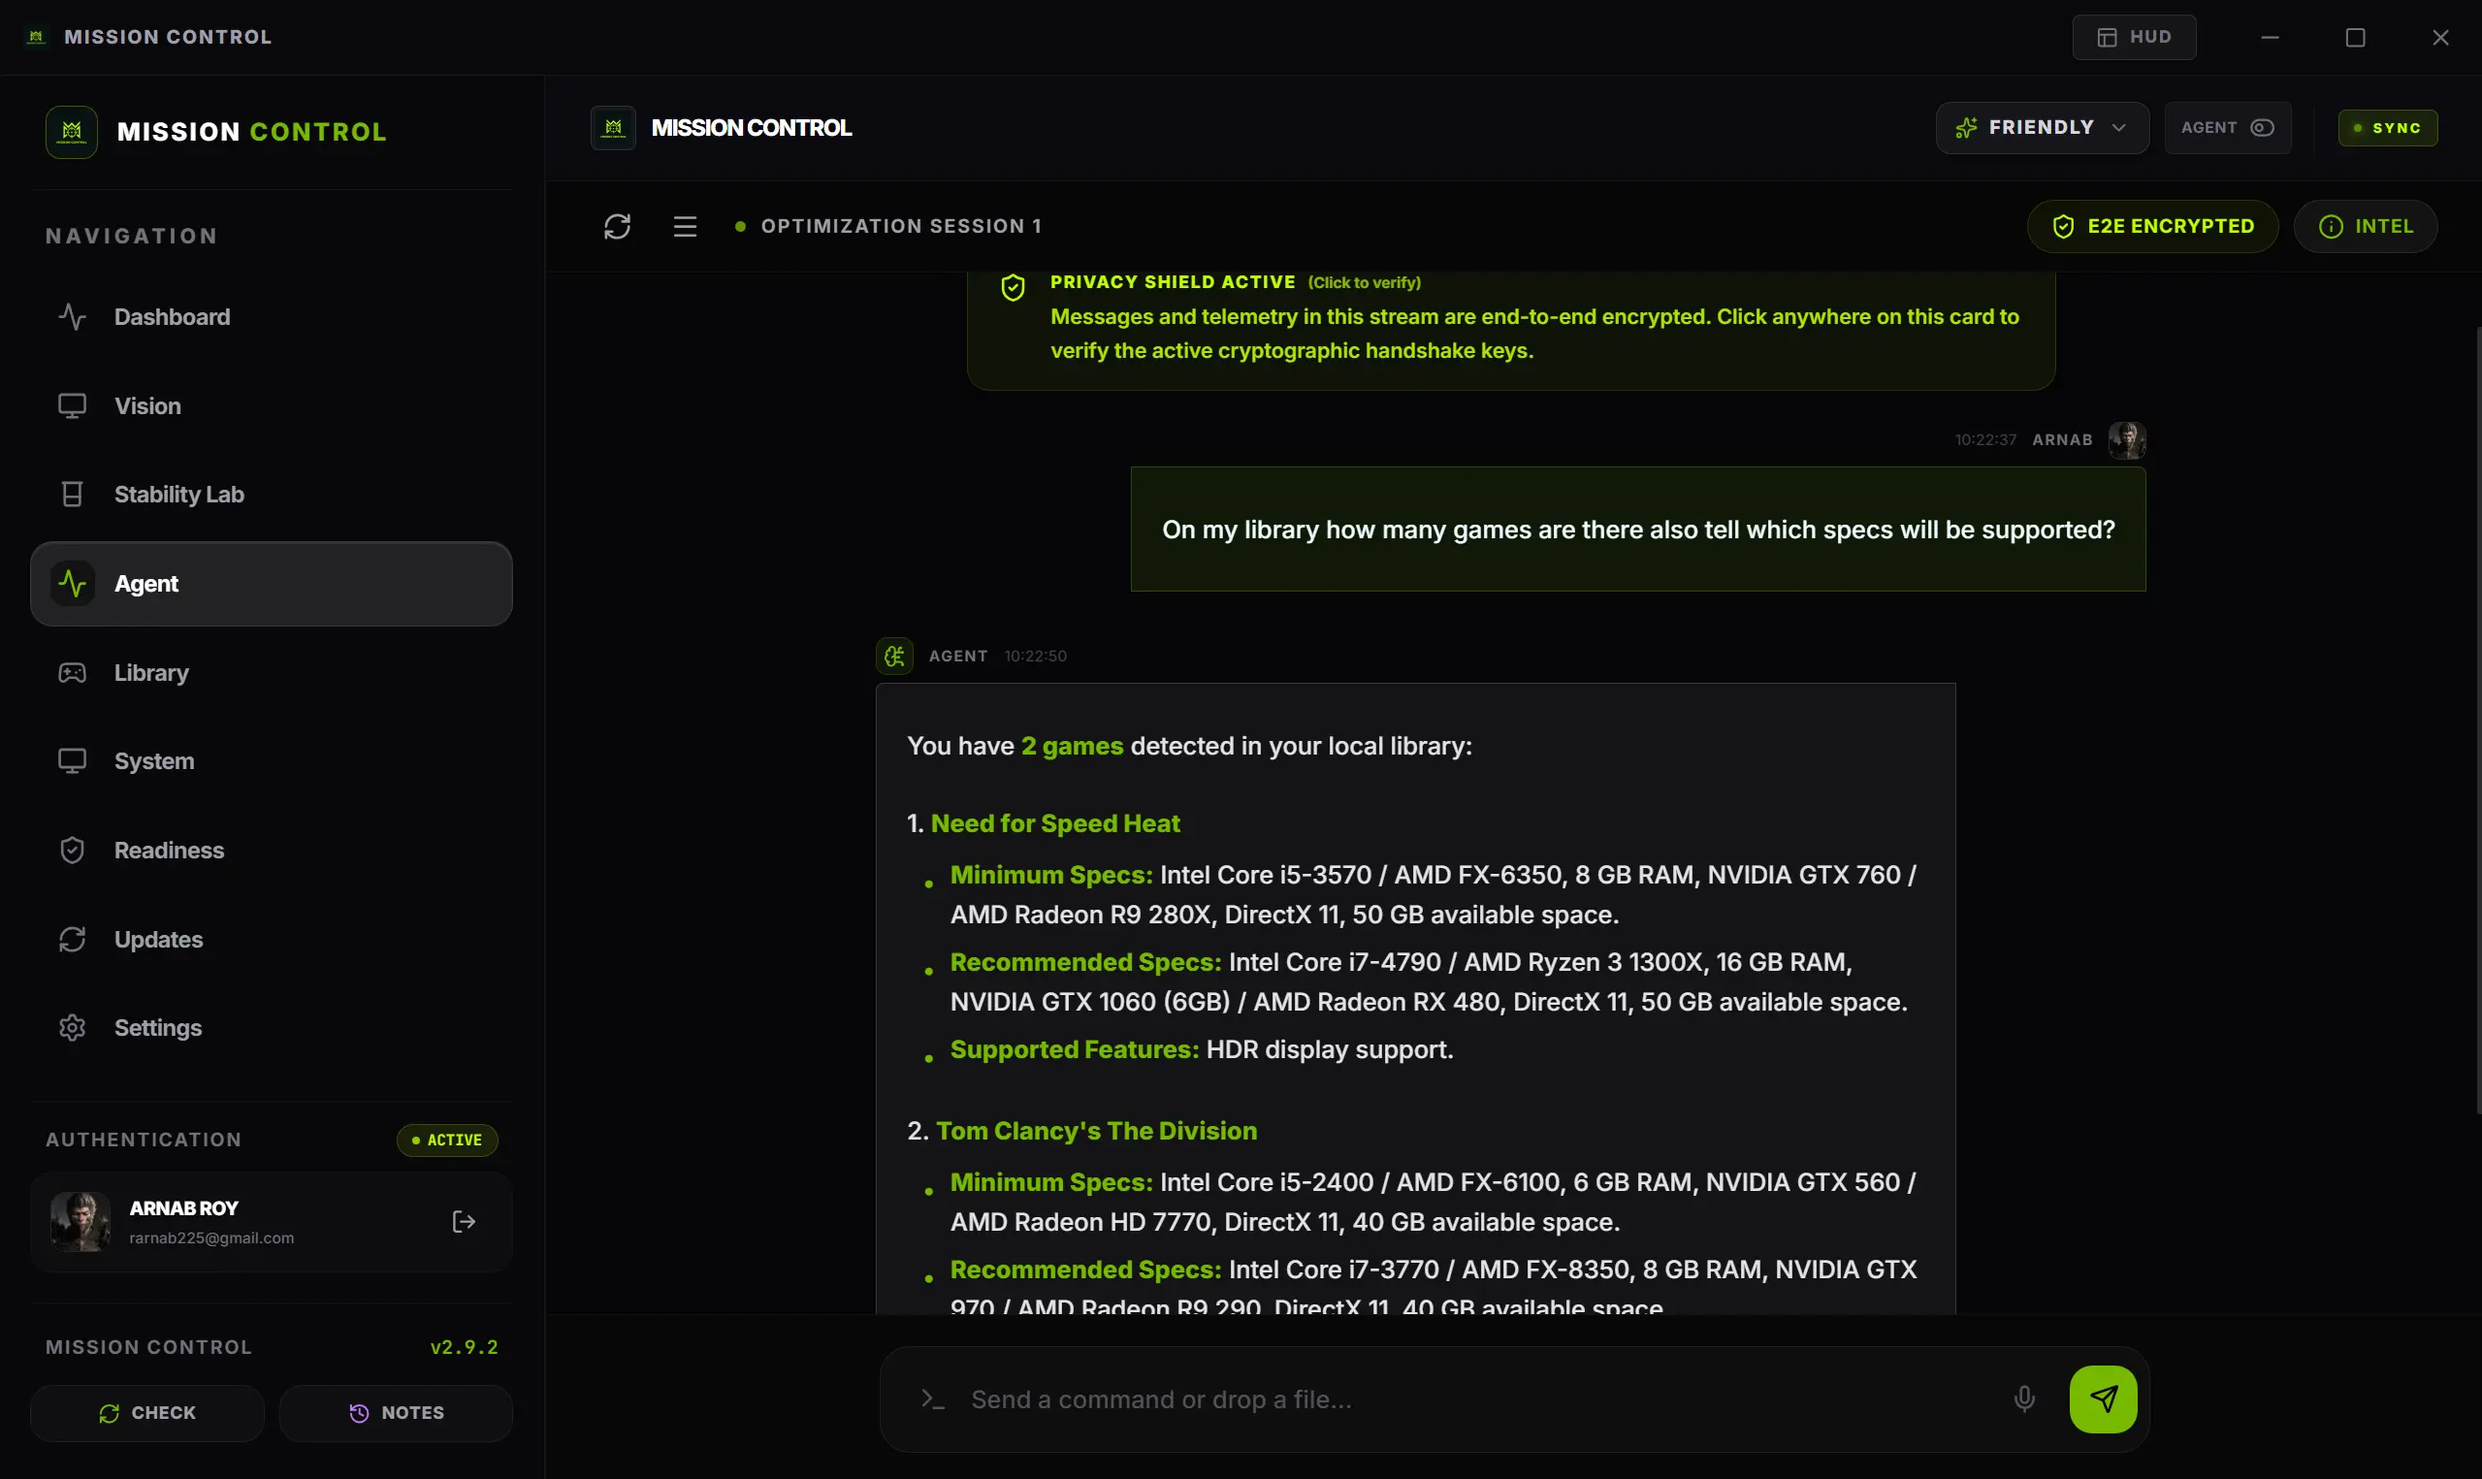
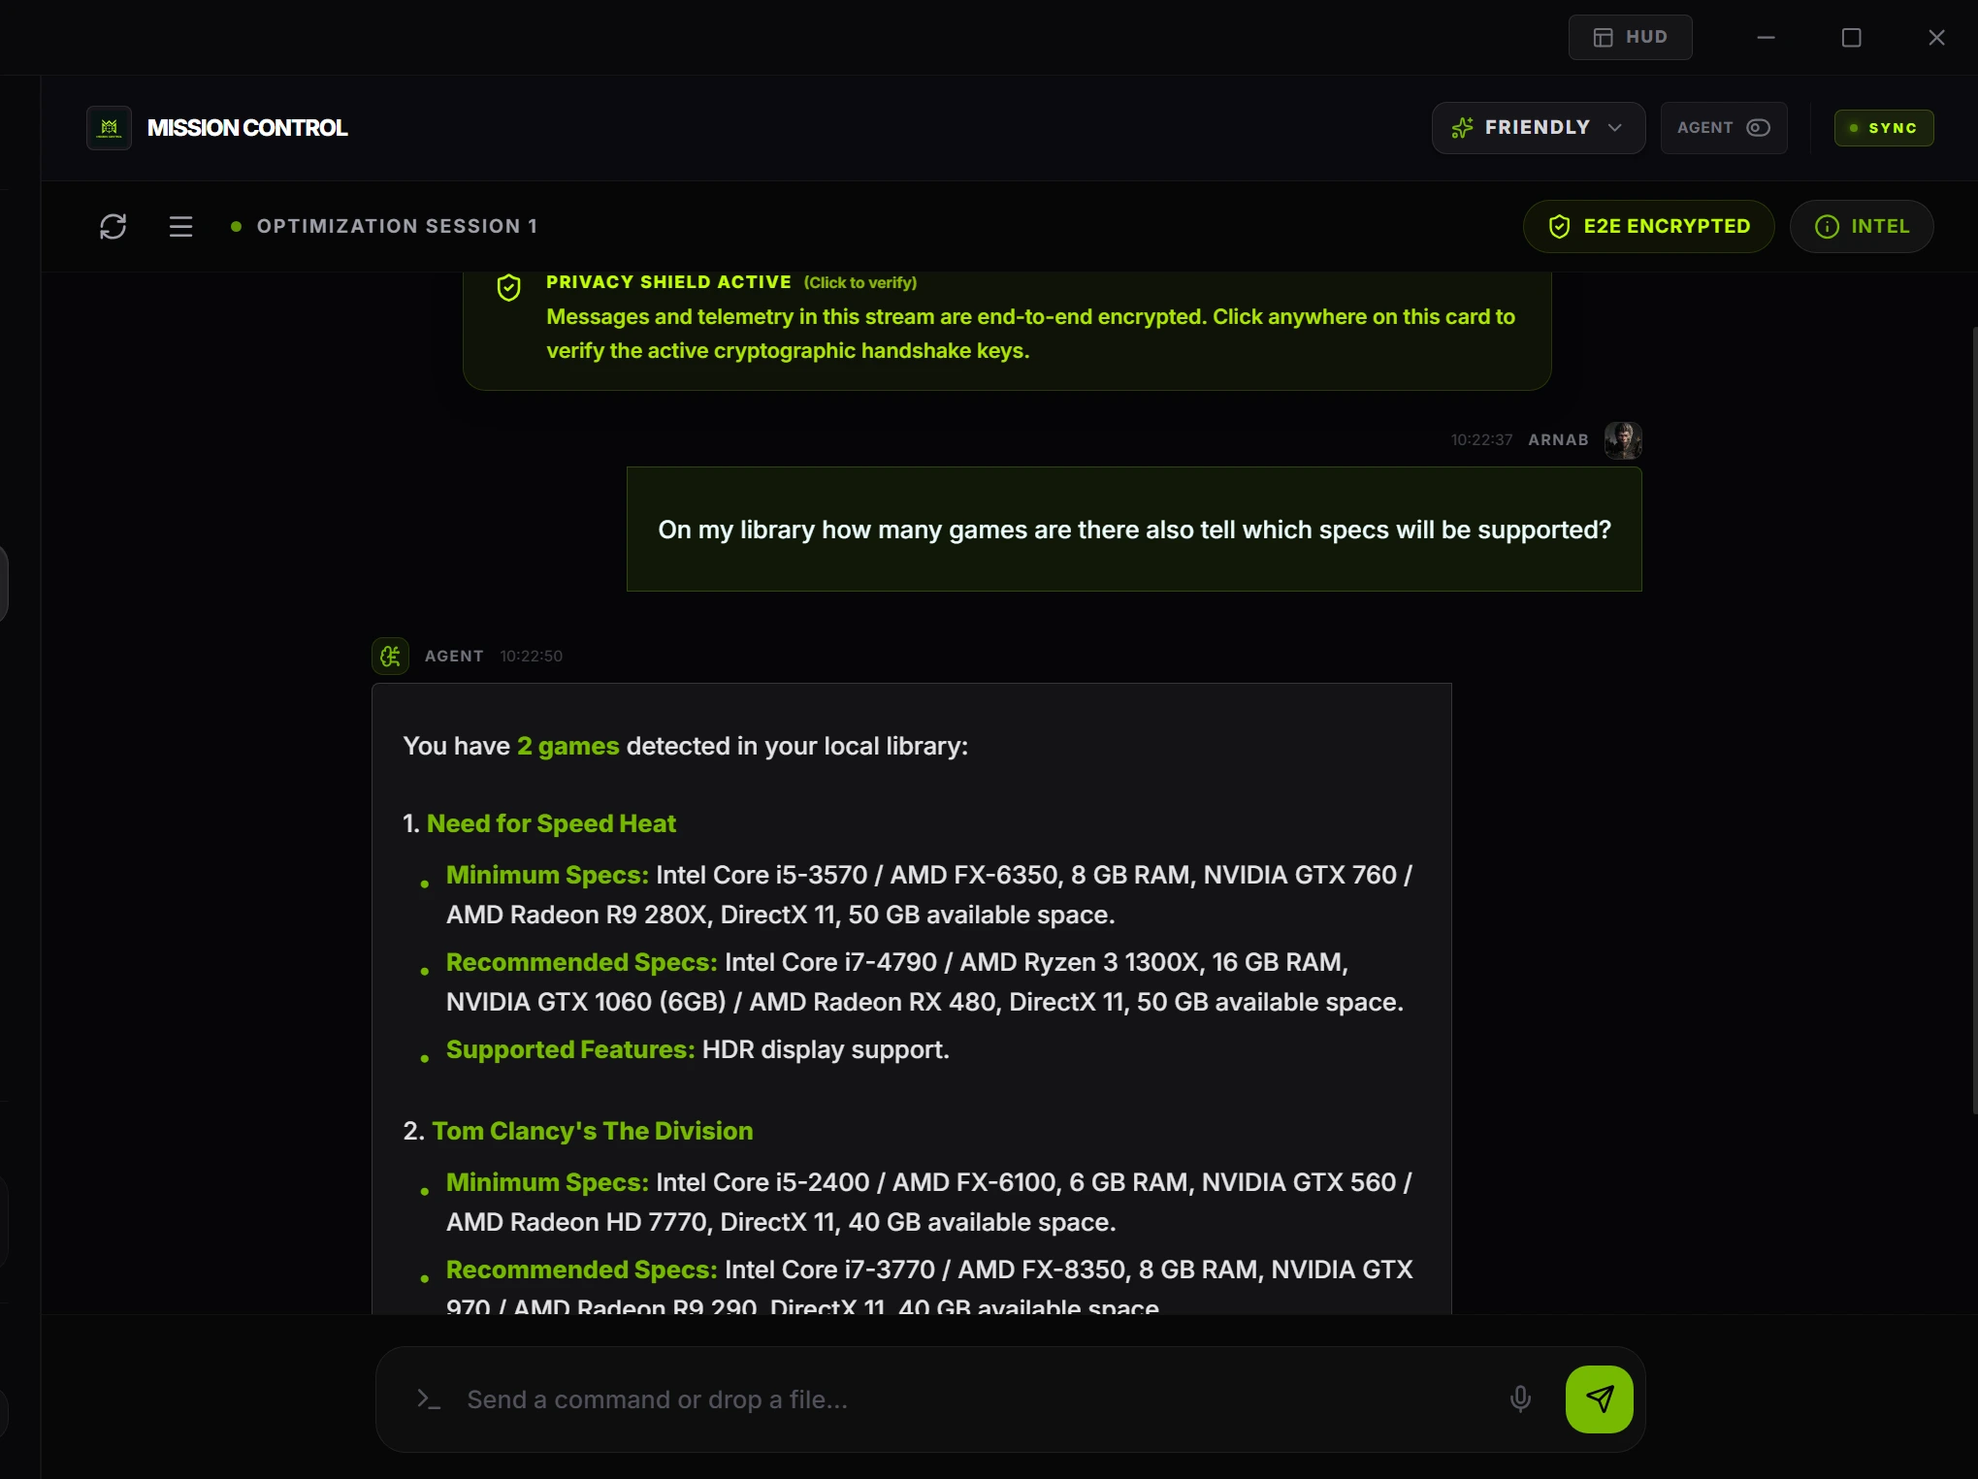
feat: implement ScreenshotGallery component and add initial agent UI assets

diff --git a/Gaming/website/src/components/ScreenshotGallery.tsx b/Gaming/website/src/components/ScreenshotGallery.tsx
@@ -1,6 +1,6 @@
 "use client";
 
-import { useState, useEffect } from "react";
+import { useState, useEffect, useRef } from "react";
 import { motion, AnimatePresence } from "framer-motion";
 import { Maximize2, X, Activity, Scan, Cpu, BrainCircuit, Terminal, Gamepad2, Server, ShieldCheck, Bot, Settings } from "lucide-react";
 
@@ -20,6 +20,7 @@ export function ScreenshotGallery() {
   const [activeTab, setActiveTab] = useState(tabs[0].id);
   const [imageStatus, setImageStatus] = useState<'loading' | 'loaded' | 'error'>('loaded');
   const [isLightboxOpen, setIsLightboxOpen] = useState(false);
+  const tabsContainerRef = useRef<HTMLDivElement>(null);
 
   useEffect(() => {
     // Keep loaded state active for instant rendering
@@ -202,7 +203,10 @@ export function ScreenshotGallery() {
         <div className="sm:hidden absolute left-0 top-0 bottom-0 w-4 bg-gradient-to-r from-obsidian to-transparent z-10 pointer-events-none" />
         <div className="sm:hidden absolute right-0 top-0 bottom-0 w-4 bg-gradient-to-l from-obsidian to-transparent z-10 pointer-events-none" />
 
-        <div className="flex items-center gap-2 sm:gap-3 overflow-x-auto no-scrollbar scroll-smooth flex-nowrap sm:flex-wrap sm:justify-center px-4 py-1.5">
+        <div
+          ref={tabsContainerRef}
+          className="flex items-center gap-2 sm:gap-3 overflow-x-auto no-scrollbar scroll-smooth flex-nowrap sm:flex-wrap sm:justify-center px-4 py-1.5"
+        >
           {tabs.map(tab => {
             const isActive = activeTab === tab.id;
             const Icon = tab.icon;
@@ -211,7 +215,12 @@ export function ScreenshotGallery() {
                 key={tab.id}
                 onClick={(e) => {
                   setActiveTab(tab.id);
-                  e.currentTarget.scrollIntoView({ behavior: 'smooth', inline: 'center', block: 'nearest' });
+                  if (tabsContainerRef.current && window.innerWidth < 640) {
+                    const container = tabsContainerRef.current;
+                    const btn = e.currentTarget;
+                    const scrollTarget = btn.offsetLeft - container.offsetWidth / 2 + btn.offsetWidth / 2;
+                    container.scrollTo({ left: scrollTarget, behavior: 'smooth' });
+                  }
                 }}
                 className={`flex items-center gap-1.5 sm:gap-2 px-3.5 sm:px-5 py-2 sm:py-2.5 rounded-full font-mono text-xs sm:text-sm font-bold transition-all duration-300 shrink-0 whitespace-nowrap cursor-pointer ${
                   isActive
